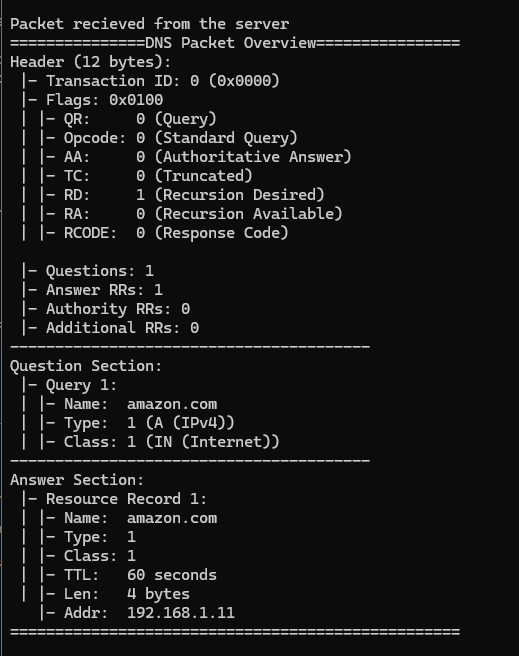
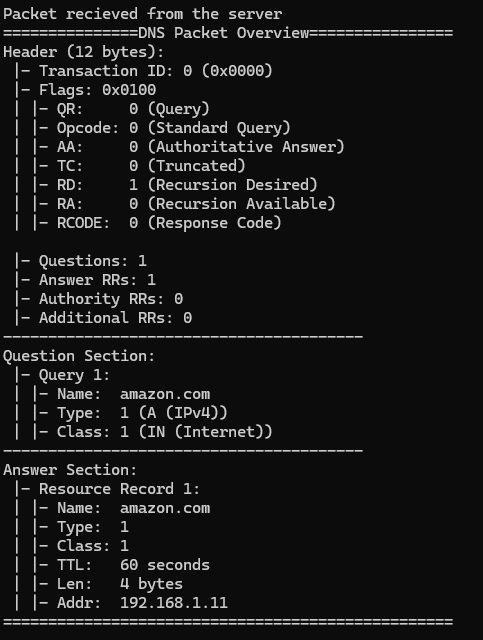
beautify

Changed region(s): [[0.0, 0.0, 0.9317, 1.0]]

diff --git a/Task 1/helpers.py b/Task 1/helpers.py
@@ -247,12 +247,12 @@ class DNSPacket:
                 # some common records
                 if rtype == 1: # A record
                     ip = ".".join(map(str, rdata))
-                    print(f"   |- Addr:  {ip}")
+                    print(f" | |- Addr:  {ip}")
                 elif rtype == 5: # CNAME record
                     cname_labels = self.read_labels(pos)
-                    print(f"   |- CNAME: {'.'.join(cname_labels)}")
+                    print(f" | |- CNAME: {'.'.join(cname_labels)}")
                 else:
-                    print(f"   |- Data:  {rdata.hex()}")
+                    print(f" | |- Data:  {rdata.hex()}")
                 
                 pos += rdlength
         
